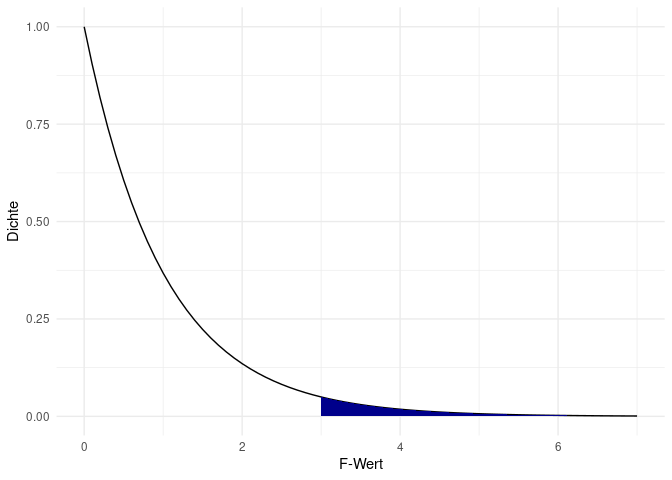
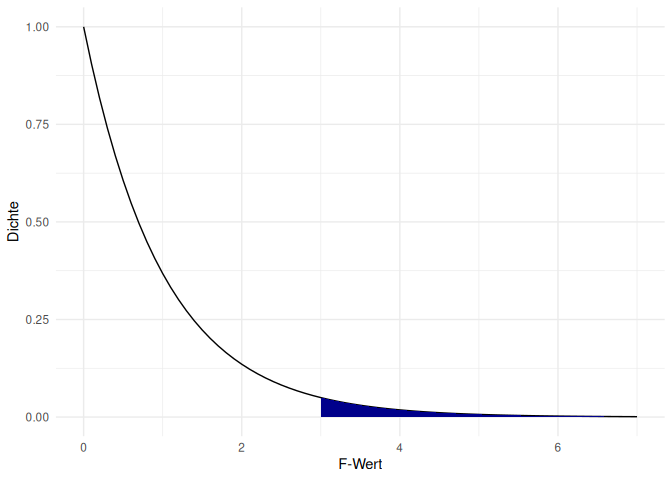
Some more rework for the anova-i tutorial - finalization of presented functions, descriptions.

diff --git a/content/lehre/statistik-ii/anova-i.md b/content/lehre/statistik-ii/anova-i.md
@@ -7,9 +7,9 @@ categories: ["Statistik II"]
 tags: ["ANOVA", "Post-Hoc", "Einfaktoriell"] 
 subtitle: '1-fakt. ANOVA'
 summary: ''
-authors: [nehler, scheppa-lahyani, irmer, wallot ]
+authors: [nehler, scheppa-lahyani, irmer, wallot, pommeranz]
 weight: 8
-lastmod: '2026-05-18'
+lastmod: '2026-05-19'
 featured: no
 banner:
   image: "/header/earth_and_moon_space.jpg"
@@ -40,7 +40,7 @@ output:
 
 In den letzten Sitzungen haben wir uns mit der Beantwortung von Zusammenhangsfragestellungen im Rahmen von Korrelation und Regression beschäftigt. Wie auch im letzten Semester werden wir uns nun mit Fragestellungen zum Unterschied beschäftigen. Dort haben wir bereits den **t-Test** kennen gelernt, mit dem Mittelwertsunterschiede zwischen zwei Gruppen untersucht werden können. Wenn wir nun mehr als zwei Gruppen miteinander vergleichen möchten, müssten wir mehrere **t-Tests** mit allen Kombinationen durchführen. Bei z. B. 3 Gruppen müssten wir $\binom{3}{2}$ - also in diesem Fall 3  *t-Tests* durchführen. Dies führt aber zu einer $\alpha$**-Fehler-Inflation oder -Kumulierung**. 
 
-Die Lösung für diese Problematik bietet die **ANOVA**, die uns die nächsten Wochen beschäftigen wird. Heute fokussieren wir uns zunächst auf ein Setting, in dem *eine Gruppenvariable* vorliegt, auf der sich die Personen untereinander unterscheiden (auch als *between subject* bezeichnet). Es handelt sich also hierbei zunächst um die Erweiterung des t-Tests für *unabhängige* Stichproben (Erweiterung des t-Tests für abhängige gibt es [hier](/lehre/statistik-ii/anova-iii)). Die Gruppierungsvariable kann beliebig viele Ausprägungen haben - wir bleiben im Beispiel bei 3 Stück. Wir nutzen heute also eine *einfaktorielle ANOVA* - die eine Gruppenvariable stellt den einen Faktor dar. Wie das Verfahren für mehrere Gruppenvariablen ist, wird in der nächsten Sitzung besprochen. Mehr zur *einfaktoriellen ANOVA* finden Sie in [`Eid, Gollwitzer und Schmitt (2017, Kapitel 13 und insb. 13.1 und folgend)`](https://ubffm.hds.hebis.de/Record/HEB366849158). 
+Die Lösung für diese Problematik bietet die **ANOVA**, die uns die nächsten Wochen beschäftigen wird. Heute fokussieren wir uns zunächst auf ein Setting, in dem *eine Gruppenvariable* vorliegt, auf der sich die Personen untereinander unterscheiden (auch als *between subject* bezeichnet). Es handelt sich also hierbei zunächst um die Erweiterung des t-Tests für *unabhängige* Stichproben (Erweiterung des t-Tests für abhängige gibt es [hier](/lehre/statistik-ii/anova-iii)). Die Gruppierungsvariable kann beliebig viele Ausprägungen haben - wir nutzen im Beispiel den einfachsten Fall mit 3 Ausprägungen. Das Verfahren wir dann *einfaktorielle ANOVA* genannt - die eine Gruppenvariable stellt den einen Faktor dar. Wie das Verfahren für mehrere Gruppenvariablen ist, wird in der nächsten Sitzung besprochen. Mehr zur *einfaktoriellen ANOVA* finden Sie in [`Eid, Gollwitzer und Schmitt (2017, Kapitel 13 und insb. 13.1 und folgend)`](https://ubffm.hds.hebis.de/Record/HEB366849158). 
 
 Die praktische Umsetzung in `R` soll anhand des Datensatzes `conspiracy` demonstriert werden, den wir also zunächst in unser Environment laden müssen. Dieser stammt aus einer Erhebung zur Validierung eines Fragebogens, der Skalenwerte enthält, die verschiedene Dimensionen von Verschwörungsglauben abbilden sollen.
 
@@ -73,33 +73,26 @@ head(conspiracy)
 ```
 
 ```
-##              edu    urban gender age       GM       GC       EC       PW
-## 1 not highschool suburban female  14 4.000000 5.000000 4.666667 3.333333
-## 2        college suburban female  26 2.000000 4.000000 1.000000 2.000000
-## 3        college    rural   male  25 5.000000 4.333333 1.000000 3.333333
-## 4     highschool suburban   male  37 5.000000 4.333333 2.333333 3.333333
-## 5        college    rural   male  34 1.000000 1.000000 1.000000 1.000000
-## 6     highschool suburban   male  17 3.333333 2.666667 3.000000 2.666667
-##         CI
-## 1 4.666667
-## 2 3.333333
-## 3 4.666667
-## 4 4.666667
-## 5 1.000000
-## 6 3.666667
+##              edu    urban gender age       GM       GC       EC       PW       CI
+## 1 not highschool suburban female  14 4.000000 5.000000 4.666667 3.333333 4.666667
+## 2        college suburban female  26 2.000000 4.000000 1.000000 2.000000 3.333333
+## 3        college    rural   male  25 5.000000 4.333333 1.000000 3.333333 4.666667
+## 4     highschool suburban   male  37 5.000000 4.333333 2.333333 3.333333 4.666667
+## 5        college    rural   male  34 1.000000 1.000000 1.000000 1.000000 1.000000
+## 6     highschool suburban   male  17 3.333333 2.666667 3.000000 2.666667 3.666667
 ```
 
 Die **ersten vier Variablen** enthalten Informationen über den demographischen Hintergrund der Personen: höchster Bildungsabschluss (`edu`), Typ des Wohnortes (`urban`), Geschlecht (`gender`) und Alter (`age`). Die **fünf restlichen Variablen** sind Skalenwerte bezüglich verschiedener Subdimensionen verschwörungstheoretischer Überzeugungen: `GM` (goverment malfeasance), `GC` (malevolent global conspiracies), `EC` (extraterrestrial cover-up), `PW` (personal well-being) und `CI` (control of information).
 
 ## Einfaktorielle ANOVA
 
-Die Durchführung der ANOVA benötigt natürlich Hypothesen, die uns bei der Auswertung interessieren. In unserem Beispiel soll untersucht werden, ob sich Personen je nach Ländlichkeit ihres Wohnortes (*rural*, *suburban*, *urban* - Variablenname `urban`) in der Überzeugung unterscheiden, inwiefern die Existenz von Außerirdischen (Skalenwert Variablenname `EC`) geheimgehalten wird (Beispielitem: Evidence of alien contact is being concealed from the public).
+Als inferenzstatistisches Verfahren benötigt die einfaktorielle ANOVA vor der Durchführung natürlich Hypothesen. In unserem Beispiel soll untersucht werden, ob sich Personen je nach Ländlichkeit ihres Wohnortes (*rural*, *suburban*, *urban* - Variablenname `urban`) in der Überzeugung unterscheiden, inwiefern die Existenz von Außerirdischen (Skalenwert Variablenname `EC`) geheimgehalten wird (Beispielitem: Evidence of alien contact is being concealed from the public).
 
-In der *einfaktoriellen ANOVA* wird die **Gleichheit aller Gruppenmittelwerte als Nullhypothese** postuliert. Dies bedeutet, dass sich Bewohner:innen des ländlichen Raums (`rural`), des vorstädtischen Raums (`suburban`) und der Stadt (`urban`) nicht hinsichtlich ihrer Zustimmung zur Verschwörungstheorie (`EC`) unterscheiden:
+In der einfaktoriellen ANOVA wird die **Gleichheit aller Gruppenmittelwerte als Nullhypothese** postuliert. Dies bedeutet, dass sich Bewohner:innen des ländlichen Raums (`rural`), des vorstädtischen Raums (`suburban`) und der Stadt (`urban`) nicht hinsichtlich ihrer Zustimmung zur Verschwörungstheorie (`EC`) unterscheiden:
   
 $H_0: \mu_{\text{rural}} = \mu_{\text{suburban}} = \mu_{\text{urban}}$
   
-Im Rahmen der vorliegenden Daten müssen wir beachten, dass der Variablenname `urban` genauso gewählt wurde, wie eine seiner Ausprägungen (für den städtischen Raum). Für bestimmte Code-Abschnitte ist es wichtig, das im Hinterkopf zu behalten, um nicht verwirrt zu werden.
+Im Rahmen der vorliegenden Daten müssen wir beachten, dass der Variablenname `urban` genauso gewählt wurde, wie eine seiner Ausprägungen (für den städtischen Raum). Für bestimmte Code-Abschnitte und die Interpretation ist es wichtig, das im Hinterkopf zu behalten, um nicht verwirrt zu werden.
 
 Bei der Alternativhypothese wird angenommen, dass sich **mindestens zwei dieser Subgruppen** im Mittel voneinander unterscheiden:
   
@@ -116,6 +109,8 @@ Schauen wir uns zunächst die mathematischen Grundlagen der einfaktoriellen ANOV
 $$QS_{tot} = QS_{zw} + QS_{inn}$$
     
 Die totale Quadratsumme als Repräsentant der Gesamtvariation kann auch als quadrierte Abstände aller Werte zum Gesamtmittelwert dargestellt werden. $i$ ist dabei der Index der Personen, $k$ der Index der Gruppe, $K$ die Gesamtanzahl der Gruppen und $n_k$ ist die Gruppengröße der k-ten Gruppen. 
+
+
 
 $$QS_{tot} = \sum_{k = 1}^{K} \sum_{i = 1}^{n_k} (y_{ik}-\overline{y})^2$$
     
@@ -171,8 +166,8 @@ names(temp)  # Spaltennamen des temporären Datensatzes
 ```
 
 ```
-##  [1] "urban"     "edu"       "gender"    "age"       "GM"        "GC"       
-##  [7] "EC"        "PW"        "CI"        "EC_mean_k"
+##  [1] "urban"     "edu"       "gender"    "age"       "GM"        "GC"        "EC"        "PW"       
+##  [9] "CI"        "EC_mean_k"
 ```
 
 ``` r
@@ -180,20 +175,13 @@ head(temp)   # ersten 6 Zeilen des temporären Datensatzes
 ```
 
 ```
-##   urban            edu gender age GM       GC       EC       PW       CI
-## 1 rural     highschool   male  19  4 2.666667 1.000000 2.666667 3.666667
-## 2 rural not highschool   male  16  5 2.666667 1.000000 2.333333 3.333333
-## 3 rural        college female  74  2 3.000000 2.333333 2.666667 3.333333
-## 4 rural     highschool   male  38  4 1.666667 3.666667 2.000000 3.333333
-## 5 rural     highschool   male  21  5 4.333333 4.000000 4.000000 4.333333
-## 6 rural        college   male  61  1 1.000000 1.000000 1.000000 1.000000
-##   EC_mean_k
-## 1  2.186667
-## 2  2.186667
-## 3  2.186667
-## 4  2.186667
-## 5  2.186667
-## 6  2.186667
+##   urban            edu gender age GM       GC       EC       PW       CI EC_mean_k
+## 1 rural     highschool   male  19  4 2.666667 1.000000 2.666667 3.666667  2.186667
+## 2 rural not highschool   male  16  5 2.666667 1.000000 2.333333 3.333333  2.186667
+## 3 rural        college female  74  2 3.000000 2.333333 2.666667 3.333333  2.186667
+## 4 rural     highschool   male  38  4 1.666667 3.666667 2.000000 3.333333  2.186667
+## 5 rural     highschool   male  21  5 4.333333 4.000000 4.000000 4.333333  2.186667
+## 6 rural        college   male  61  1 1.000000 1.000000 1.000000 1.000000  2.186667
 ```
   
 Anhand der Dimensionen können wir sehen, dass unser neuer Datensatz nun eine Variable mehr hat als `conspiracy`. Anhand der Variablennamen können wir sehen, dass die zusätzliche Spalte genau die ist, die die Mittelwerte pro Gruppe enthält (`EC_mean_k`). Mit der `head()`-Funktion gewinnnen wir weitere Eindrücke, gerne können Sie sich lokal den Datensatz auch mit `View(temp)` anschauen.
@@ -279,7 +267,7 @@ pf(F_wert, nlevels(conspiracy$urban)-1, nrow(conspiracy) - nlevels(conspiracy$ur
   
 Grafisch gesehen lassen wir uns also die Fläche für den folgenden Bereich der F-Verteilung anzeigen.
   
-![](/anova-i_files/unnamed-chunk-13-1.png)<!-- -->
+![](/anova-i_files/unnamed-chunk-43-1.png)<!-- -->
   
 Zur Beurteilung der Signifikanz muss der errechnete p-Wert mit dem vorher festgelegten $\alpha$-Niveau verglichen werden. Da der p-Wert hier niedriger als unser $\alpha$-Niveau von .05 ist, können wir die Nullhypothese verwerfen und die Alternativhypothese annehmen. Bevor wir genauer darauf eingehen, was diese Signifikanzentscheidung bedeutet, schauen wir uns zunächst die Durchführung mithilfe eines Pakets an.
 
@@ -304,6 +292,51 @@ Anschließend kann es geladen werden.
 # Paket laden 
 library(afex)
 ```
+
+```
+## Loading required package: lme4
+```
+
+```
+## Loading required package: Matrix
+```
+
+```
+## 
+## Attaching package: 'Matrix'
+```
+
+```
+## The following objects are masked from 'package:tidyr':
+## 
+##     expand, pack, unpack
+```
+
+```
+## ************
+## Welcome to afex. For support visit: http://afex.singmann.science/
+```
+
+```
+## - Functions for ANOVAs: aov_car(), aov_ez(), and aov_4()
+## - Methods for calculating p-values with mixed(): 'S', 'KR', 'LRT', and 'PB'
+## - 'afex_aov' and 'mixed' objects can be passed to emmeans() for follow-up tests
+## - Get and set global package options with: afex_options()
+## - Set sum-to-zero contrasts globally: set_sum_contrasts()
+## - For example analyses see: browseVignettes("afex")
+## ************
+```
+
+```
+## 
+## Attaching package: 'afex'
+```
+
+```
+## The following object is masked from 'package:lme4':
+## 
+##     lmer
+```
   
 Die Funktion, die wir zur Durchführung der ANOVA nutzen wollen, heißt `aov_4()`. Wie bereits angekündigt , ist die Syntax ähnlich der der Regressionsanalyse. Die abhängige Variable wird zunächst genannt, dann folgt die Tilde `~`, dann die unabhängige Variable und schließlich der Datensatz. 
   
@@ -313,7 +346,8 @@ aov_4(EC ~ urban, data = conspiracy)
 ```
 
 ```
-## Error in aov_4(EC ~ urban, data = conspiracy): aov_4() requires one random-effect term in formula
+## Error in `aov_4()`:
+## ! aov_4() requires one random-effect term in formula
 ```
   
 Leider funktioniert die Durchführung hier nicht direkt. Die Fehlermeldung spricht an, dass wir einen *random-effect* in der Formel brauchen. Was das genau ist, besprechen wir in einem späteren Tutorial. Fürs erste können wir das Problem lösen, indem wir eine `id`-Variable zu unserem Datensatz hinzufügen. Diese macht klar, welche Zeile zu welcher Beobachtung gehört. Bei uns können wir die `id` einfach durchnummerieren, da jede Beobachtung eine eigene Zeile hat.
@@ -361,11 +395,12 @@ einfakt <- aov_4(EC ~ urban + (1|id), data = conspiracy)
 ## Contrasts set to contr.sum for the following variables: urban
 ```
   
-Es entsteht eine verschachtelte Liste mit 5 Einträgen, welche weitere Untereinträge enthalten. Standardmäßig wird nur der `anova_table` beim Aufruf ausgegeben. Als Beispiel, welches für uns interessant ist, können wir uns die jeweiligen Quadratsummen ausgeben lassen. Mit diesen lässt sich auch der F-Wert händisch bestimmen (siehe vorherige Vertiefung zur händischen Berechnung).
+Es entsteht eine verschachtelte Liste mit 5 Einträgen, welche weitere Untereinträge enthalten. Standardmäßig wird nur der `anova_table` beim Aufruf ausgegeben. Beispielsweise können wir uns die jeweiligen Quadratsummen ausgeben lassen. 
 
 
 ``` r
-# QS_zw
+# Quadratsumme zwischen den Gruppen
+# QS_zw in händischer Berechnung
 einfakt$Anova$`Sum Sq`[2]
 ```
 
@@ -374,7 +409,8 @@ einfakt$Anova$`Sum Sq`[2]
 ```
 
 ``` r
-# QS_inn
+# Quadratsumme innerhalb der Gruppen
+# QS_inn in händischer Berechnung
 einfakt$Anova$`Sum Sq`[3]
 ```
 
@@ -382,9 +418,14 @@ einfakt$Anova$`Sum Sq`[3]
 ## [1] 4281.063
 ```
 
-Gucken Sie sich die restlichen Bestandteile gerne selbst im Detail an.
+Mit diesen lässt sich auch der $F$-Wert händisch bestimmen (siehe vorherige Vertiefung zur händischen Berechnung). Die Formel beschreibt das Verhältnis zwischen der durch die Gruppierungsvariable erklärten Varianz und der Varianz innerhalb der Gruppen (Fehlervarianz):
 
-Wir nutzen das soeben erstellte Objekt im Tutorial nun für den folgenden Abschnitt.
+
+$$F_{emp} = \frac{MQS_{zw}}{MQS_{inn}} = \frac{\frac{QS_{zw}}{df_{zw}}}{\frac{QS_{inn}}{df_{inn}}}$$
+
+Dabei kann der $F$-Wert größer als 1 werden, obwohl $QS_{inn}$ häufig deutlich größer ist als $QS_{zw}$. Der Grund ist, dass nicht die Quadratsummen selbst verglichen werden, sondern die mittleren Quadratsummen, also die Quadratsummen relativ zu ihren Freiheitsgraden. Dadurch werden beide Varianzschätzungen vergleichbar gemacht. Diese Verrechnung ist gerechtfertigt, weil Quadratsummen mit zunehmender Anzahl an Beobachtungen allein aufgrund der größeren Informationsmenge anwachsen. Erst die mittleren Quadratsummen stellen daher vergleichbare Schätzungen von Varianz dar.
+
+Betrachten Sie die Struktur des Objekts gerne genauer, um zu verstehen, wie die Informationen hier abgelegt sind. Wir nutzen nun das soeben erstellte Objekt im Tutorial für den folgenden Abschnitt.
   
 ## Post-Hoc Analysen
   
@@ -431,6 +472,12 @@ Nun können wir das Paket einladen.
 
 ``` r
 library(emmeans)
+```
+
+```
+## Welcome to emmeans.
+## Caution: You lose important information if you filter this package's results.
+## See '? untidy'
 ```
   
 Nun wandeln wir das Objekt um. Dafür brauchen wir die Funktion `emmeans()` (die wiederum also genauso heißt wie das Paket). Diese benötigt als erstes Argument unser Objekt und als zweites dann nochmal unsere Gruppierungsvariable mit einer Tilde `~` vorweg. Das erscheint etwas redundant, aber wenn man bspw. mehrere Gruppierungsvariablen hätte, könnte man hier reduzieren.
@@ -485,7 +532,7 @@ Auch ein hübscher Plot für die Berichterstattung lässt sich erzeugen, der die
 plot(tukey)
 ```
 
-![](/anova-i_files/unnamed-chunk-26-1.png)<!-- -->
+![](/anova-i_files/unnamed-chunk-56-1.png)<!-- -->
   
 *Tipp:* Man kann diese Grafik auch noch mit den bereits erlernten `ggplot2`-Funktionen anpassen.
   
@@ -517,6 +564,30 @@ Die Homoskedastizitätsannahme besagt, dass die Varianzen jeder Gruppe über die
 
 ``` r
 library(car)
+```
+
+```
+## Loading required package: carData
+```
+
+```
+## 
+## Attaching package: 'car'
+```
+
+```
+## The following object is masked from 'package:dplyr':
+## 
+##     recode
+```
+
+```
+## The following object is masked from 'package:purrr':
+## 
+##     some
+```
+
+``` r
 leveneTest(conspiracy$EC ~ conspiracy$urban)
 ```
 
@@ -547,19 +618,19 @@ Nun können wir auf die Residuen einzelner Gruppen zugreifen und uns beispielswe
 hist(conspiracy$resid[conspiracy$urban == "rural"])
 ```
 
-![](/anova-i_files/unnamed-chunk-28-1.png)<!-- -->
+![](/anova-i_files/unnamed-chunk-58-1.png)<!-- -->
 
 ``` r
 hist(conspiracy$resid[conspiracy$urban == "suburban"])
 ```
 
-![](/anova-i_files/unnamed-chunk-28-2.png)<!-- -->
+![](/anova-i_files/unnamed-chunk-58-2.png)<!-- -->
 
 ``` r
 hist(conspiracy$resid[conspiracy$urban == "urban"])
 ```
 
-![](/anova-i_files/unnamed-chunk-28-3.png)<!-- -->
+![](/anova-i_files/unnamed-chunk-58-3.png)<!-- -->
 
 Die Normalverteilung der Residuen scheint schwierig zu sein.
 
